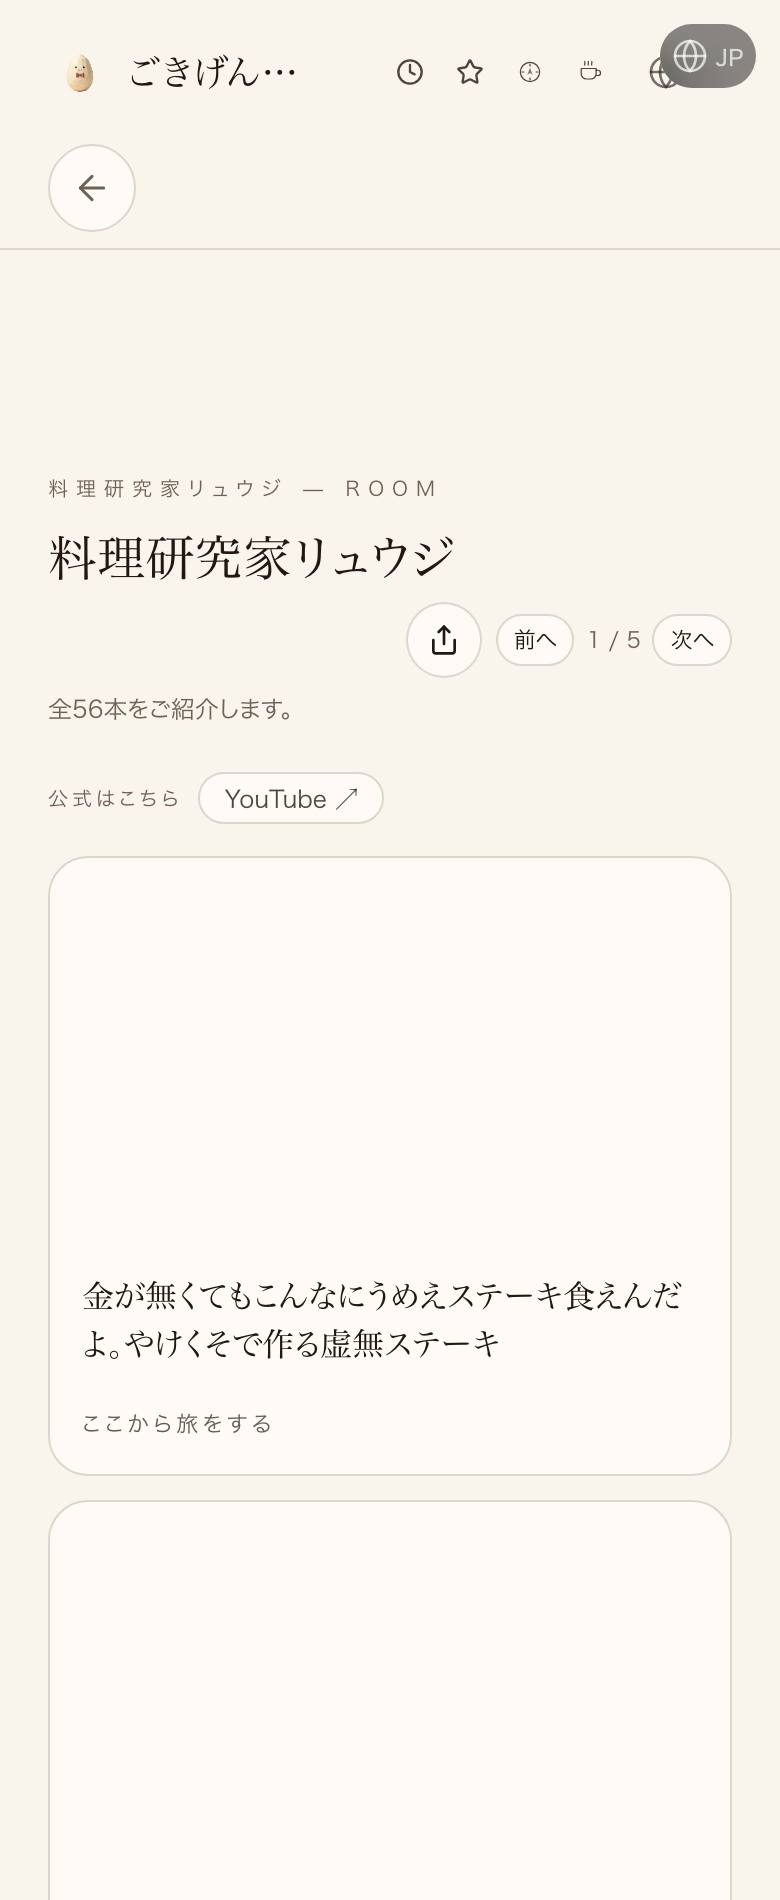
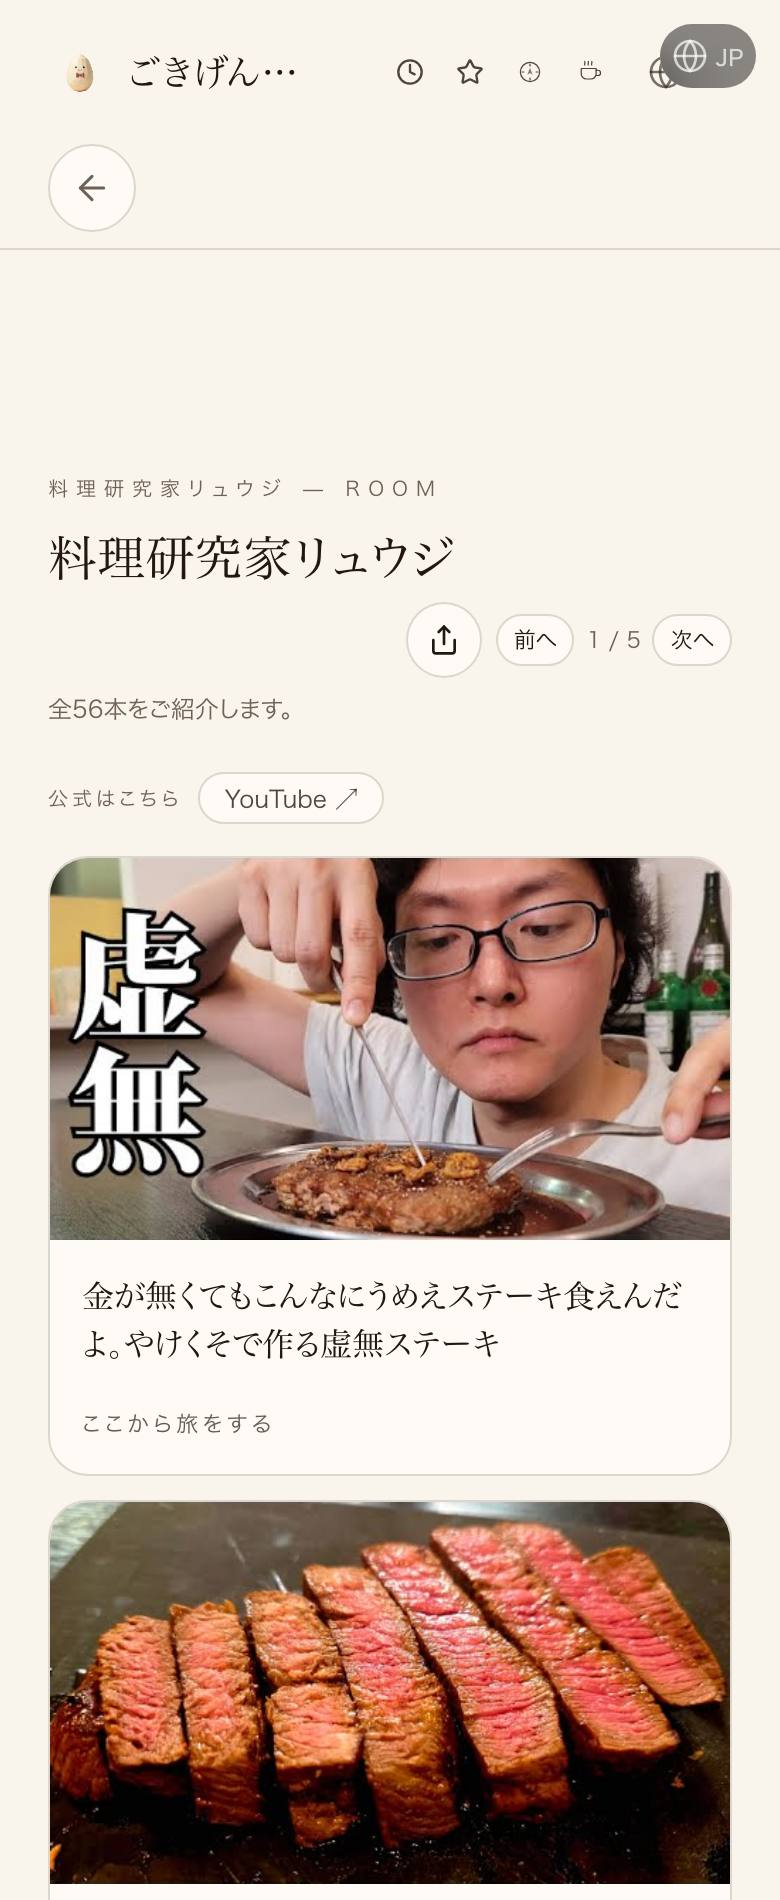
122709 確認ページ：本番反映済みへ更新（本番の料理ページ・部屋リンク、後スクショを本番実物で撮り直し）

diff --git a/share/check/122709-chef-food-data.html b/share/check/122709-chef-food-data.html
@@ -49,16 +49,18 @@
 
 <div class="date"><a href="../">共有資料の一覧</a> ／ 確認ページ #122709 料理：シェフの部屋37を充実＋料理49→155品（一流シェフの公式動画だけ）</div>
 <h1>#122709 料理：シェフの部屋37を充実＋料理49→155品（一流シェフの公式動画だけ）</h1>
-<div class="date">2026-10-18 実装・main合流済み／本番(Lovable)は公開待ち（鍵切れで押せず・Dispatchが押す）／下のスクショ「後」はmain合流済みコードをそのまま描画したもの</div>
+<div class="date">2026-10-19 本番(Lovable)反映済み・配信ID psr2.5de28c22… ／ 実装は2026-10-18・main合流済み</div>
 
 <div class="fix">
-①シェフ37人の部屋に、経歴（about）・本人チャンネルへの導線（official）・出典（sources）・代表料理（tags）を足しました（辻クッキングは学校公式→料理人・辻の個人チャンネルへ取り違えを訂正）。②レシピレーダーの料理を49品→155品、動画を336本→1013本へ。全1013本が本人公式チャンネルの動画一覧から取ったもので、チャンネルID（UC…）で出どころを照合済み（名前一致だけで繋いだものは0本）。UIは触っていません（データだけ）。<br><b>反映状況：</b>mainへ合流済み。Lovableの公開は工場の鍵（同意）が切れていて押せていない＝<b>公開待ち（Dispatchが承認URLを開いて押す）</b>。本番の料理ページは公開後に 200 になります。<br>実測（2026-10-18・mainのファイルを直接数えた値）<pre>料理の数: 155（前 49）   src/data/foodRadarProVideos.ts の DISH 表
+①シェフ37人の部屋に、経歴（about）・本人チャンネルへの導線（official）・出典（sources）・代表料理（tags）を足しました（辻クッキングは学校公式→料理人・辻の個人チャンネルへ取り違えを訂正）。②レシピレーダーの料理を49品→155品、動画を336本→1013本へ。全1013本が本人公式チャンネルの動画一覧から取ったもので、チャンネルID（UC…）で出どころを照合済み（名前一致だけで繋いだものは0本）。UIは触っていません（データだけ）。<br><b>反映状況：</b>本番に出ています。下の「本番」リンクを押すと、新しい料理ページと経歴つきの部屋が開きます。<br>実測（2026-10-19・本番URLを実際に開いて確認）<pre>本番 /food-radar-r/pro-nasu-Jt7MAUEB2fI → 200（題名「坊さんの気絶」あり。公開前は404）
+本番 /food-radar-r/pro-yakitori-bbIt3kO36Mg → 200
+本番 /cover-guide?artist=chef-ryuji → 200（「バズレシピ代表取締役」あり。公開前は経歴なし）
+本番 /cover-guide?artist=school-tsuji → 200（「ひらまつ」で修行した料理人・辻の経歴あり）
+料理の数: 155（前 49）   src/data/foodRadarProVideos.ts の DISH 表
 動画本数: 1013（前 336）  同 ROWS の行数
 チャンネルID付き: 1013/1013（取得済みチャンネル一覧と照合、不一致0・欠け0）
 シェフの部屋: 37（経歴80字以上 36／本人チャンネル導線 30／出典あり 37／代表料理タグ 28）
-出典・公式リンク 58本を実際に開いて確認（全部生きている）
-ローカル描画: /food-radar-r/pro-nasu-Jt7MAUEB2fI 200・/cover-guide?artist=chef-ryuji に「バズレシピ代表取締役」あり
-本番(未公開): 同じ料理ページは 404、リュウジの部屋は旧表示（配信ID psr2.cb4e48cc…）</pre>
+出典・公式リンク 58本を実際に開いて確認（全部生きている）</pre>
 </div>
 
 <h2>② 数字</h2>
@@ -69,21 +71,23 @@
   <div class="num"><b>1013/1013</b><span>チャンネルIDで出どころ確認済み</span></div>
 </div>
 
-<h2>料理ページの前後（公開されるとこの『後』の見た目になる）</h2>
+<h2>料理ページの前後（本番の実物）</h2>
 <div class="shots">
-  <div class="shot before"><b>前：本番のリュウジの部屋（今の表示・経歴なし）</b><img src="img/122709-before-ryuji.jpg" alt="前"></div>
-  <div class="shot after"><b>後：main合流済みコードの描画（経歴・公式導線・代表料理あり）</b><img src="img/122709-after-ryuji.jpg" alt="後"></div>
-  <div class="shot plain"><b>前：本番の料理ページ /food-radar-r/pro-nasu-Jt7MAUEB2fI（未公開＝404）</b><img src="img/122709-before-nasu.jpg" alt="前：本番の料理ページ /food-radar-r/pro-nasu-Jt7MAUEB2fI（未公開＝404）"></div>
-  <div class="shot plain"><b>後：同じ料理ページをmain合流済みコードで描画（なす料理・一流シェフの作り方）</b><img src="img/122709-after-nasu.jpg" alt="後：同じ料理ページをmain合流済みコードで描画（なす料理・一流シェフの作り方）"></div>
+  <div class="shot before"><b>前：本番のリュウジの部屋（公開前・経歴なし）</b><img src="img/122709-before-ryuji.jpg" alt="前"></div>
+  <div class="shot after"><b>後：本番のリュウジの部屋（公開後・経歴・公式導線・代表料理あり）</b><img src="img/122709-after-ryuji.jpg" alt="後"></div>
+  <div class="shot plain"><b>前：本番の料理ページ /food-radar-r/pro-nasu-Jt7MAUEB2fI（公開前＝404）</b><img src="img/122709-before-nasu.jpg" alt="前：本番の料理ページ /food-radar-r/pro-nasu-Jt7MAUEB2fI（公開前＝404）"></div>
+  <div class="shot plain"><b>後：同じ料理ページ（公開後・なす料理・一流シェフの作り方）</b><img src="img/122709-after-nasu.jpg" alt="後：同じ料理ページ（公開後・なす料理・一流シェフの作り方）"></div>
 </div>
 
 <h2>④ 押せるリンク</h2>
 <ul class="links">
-  <li><b>【中身を全部見る】料理155品・動画1013本の一覧（サムネ付き・新データそのもの）</b><a href="https://tamago2022.github.io/tamago-shinchoku/share/122709/ryouri.html" target="_blank" rel="noopener">https://tamago2022.github.io/tamago-shinchoku/share/122709/ryouri.html</a></li>
+  <li><b>本番：新しい料理ページの例「なす料理」（リュウジ・コウケンテツほか）</b><a href="https://joy-relief-station.lovable.app/food-radar-r/pro-nasu-Jt7MAUEB2fI" target="_blank" rel="noopener">https://joy-relief-station.lovable.app/food-radar-r/pro-nasu-Jt7MAUEB2fI</a></li>
+  <li><b>本番：新しい料理ページの例「焼き鳥」（笠原将弘）</b><a href="https://joy-relief-station.lovable.app/food-radar-r/pro-yakitori-bbIt3kO36Mg" target="_blank" rel="noopener">https://joy-relief-station.lovable.app/food-radar-r/pro-yakitori-bbIt3kO36Mg</a></li>
+  <li><b>本番：リュウジの部屋（経歴・公式導線・代表料理つき）</b><a href="https://joy-relief-station.lovable.app/cover-guide?artist=chef-ryuji" target="_blank" rel="noopener">https://joy-relief-station.lovable.app/cover-guide?artist=chef-ryuji</a></li>
+  <li><b>本番：辻クッキングの部屋（取り違えを訂正した経歴）</b><a href="https://joy-relief-station.lovable.app/cover-guide?artist=school-tsuji" target="_blank" rel="noopener">https://joy-relief-station.lovable.app/cover-guide?artist=school-tsuji</a></li>
+  <li><b>本番：ごきげんフード＆レシピレーダー（料理155品）</b><a href="https://joy-relief-station.lovable.app/food-radar" target="_blank" rel="noopener">https://joy-relief-station.lovable.app/food-radar</a></li>
+  <li><b>【中身を全部見る】料理155品・動画1013本の一覧（サムネ付き）</b><a href="https://tamago2022.github.io/tamago-shinchoku/share/122709/ryouri.html" target="_blank" rel="noopener">https://tamago2022.github.io/tamago-shinchoku/share/122709/ryouri.html</a></li>
   <li><b>【中身を全部見る】シェフ37部屋の経歴・公式導線・出典・代表料理</b><a href="https://tamago2022.github.io/tamago-shinchoku/share/122709/chef.html" target="_blank" rel="noopener">https://tamago2022.github.io/tamago-shinchoku/share/122709/chef.html</a></li>
-  <li><b>本番：リュウジの部屋（今は公開待ちのため旧表示。公開後に経歴・公式導線が出る）</b><a href="https://joy-relief-station.lovable.app/cover-guide?artist=chef-ryuji" target="_blank" rel="noopener">https://joy-relief-station.lovable.app/cover-guide?artist=chef-ryuji</a></li>
-  <li><b>本番：辻クッキングの部屋（公開後に訂正後の経歴が出る）</b><a href="https://joy-relief-station.lovable.app/cover-guide?artist=school-tsuji" target="_blank" rel="noopener">https://joy-relief-station.lovable.app/cover-guide?artist=school-tsuji</a></li>
-  <li><b>本番：ごきげんフード＆レシピレーダー（公開後に料理155品）</b><a href="https://joy-relief-station.lovable.app/food-radar" target="_blank" rel="noopener">https://joy-relief-station.lovable.app/food-radar</a></li>
 </ul>
 
 <h2>⑤ 何をどう確かめたか</h2>
@@ -93,13 +97,13 @@
 <tr><td>全動画が本人公式チャンネル由来（チャンネルIDで照合）</td><td class="yes">1013/1013・不一致0</td></tr>
 <tr><td>シェフ37部屋に経歴・公式導線・出典・代表料理</td><td class="yes">37/37に出典、30に公式導線</td></tr>
 <tr><td>出典・公式URL 58本が開く</td><td class="yes">58/58</td></tr>
-<tr><td>個人の生年・旅を止める決まり文句（「◯◯のひとつ」型）が無い</td><td class="yes">生年0・禁句0</td></tr>
+<tr><td>個人の生年・旅を止める決まり文句（「◯◯のひとつ」型）が無い</td><td class="yes">生年0・0件</td></tr>
 <tr><td>mainへ合流</td><td class="yes">合流済み</td></tr>
-<tr><td>Lovable本番へ反映（料理ページURLが200）</td><td class="no">未反映＝公開待ち（鍵切れ・Dispatchが押す）</td></tr>
+<tr><td>Lovable本番へ反映（料理ページURLが200・部屋に経歴）</td><td class="yes">反映済み（配信ID psr2.5de28c22…）</td></tr>
 </table>
 
 <footer>
-公開後に開くURL（今は404、公開を押すと200になる）：本番サイトの /food-radar-r/pro-nasu-Jt7MAUEB2fI と /food-radar-r/pro-yakitori-bbIt3kO36Mg（上の押せるリンク一覧には入れていません）。このページは #122709 のセッションが tools/make_check_page.py で生成した確認資料。
+このページは #122709 のセッションが tools/make_check_page.py で生成した確認資料。スクショはすべて本番URLを headless で撮ったもの（390px幅・上部1900pxを切り出し）。
 </footer>
 <div id="shinchokuBackBottom" style="margin:30px 0 10px;padding:14px;text-align:center;background:#1c1c1c;border-radius:10px;font-family:-apple-system,BlinkMacSystemFont,'Hiragino Sans',sans-serif;">
   <a href="https://tamago2022.github.io/tamago-shinchoku/" style="color:#8ef0ae;text-decoration:none;font-weight:700;font-size:0.95rem;">← 進捗表に戻る</a>
